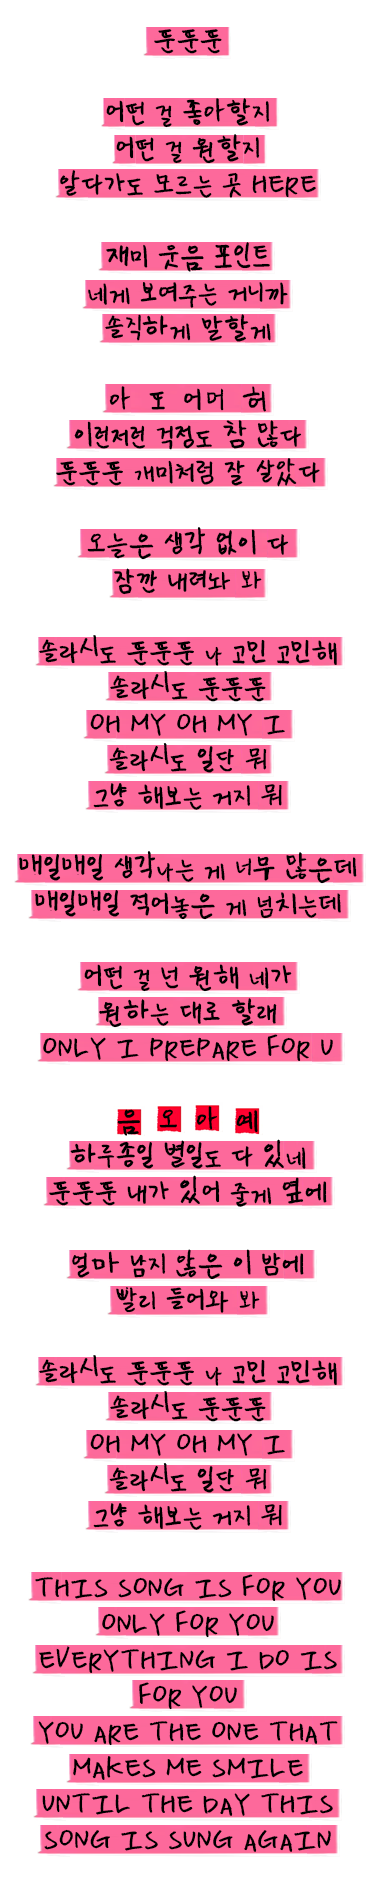
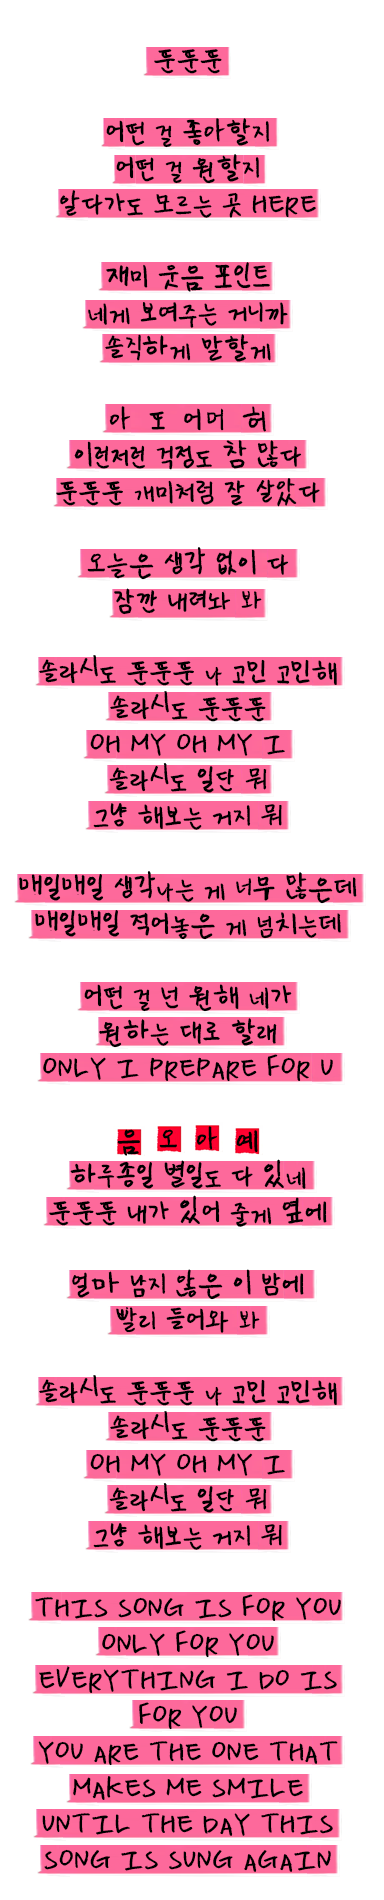
Updated the lyrics back button and sheet

Changed region(s): [[0.0312, 0.0, 0.9375, 0.9872]]

diff --git a/DdunDdunDdun.js b/DdunDdunDdun.js
@@ -151,10 +151,9 @@ function mainCreate(){
 		lyrics.setScrollFactor(0,1);
 
 		var topBar = this.add.image(192,27,'overlay');
-		var stopBtn = this.add.image(10,10, 'stop');
+		var stopBtn = this.add.image(10,8, 'stop').setOrigin(0);
 		stopBtn.setInteractive();
-		stopBtn.on.('pointerup', ()=> {this.scene.start('start')});
-
+		stopBtn.on('pointerup', ()=> {this.scene.start('start');});
 
 		cursors = this.input.keyboard.createCursorKeys();
 
@@ -397,7 +396,7 @@ function reset(){
 function mainUpdate(){
 	
 	if (gameType == 'lyrics'){
-		if (cursors.down.isDown && lyrics.tilePositionY < 1380)
+		if (cursors.down.isDown && lyrics.tilePositionY < 1400)
 		{
 			lyrics.tilePositionY += 2;
 		}
